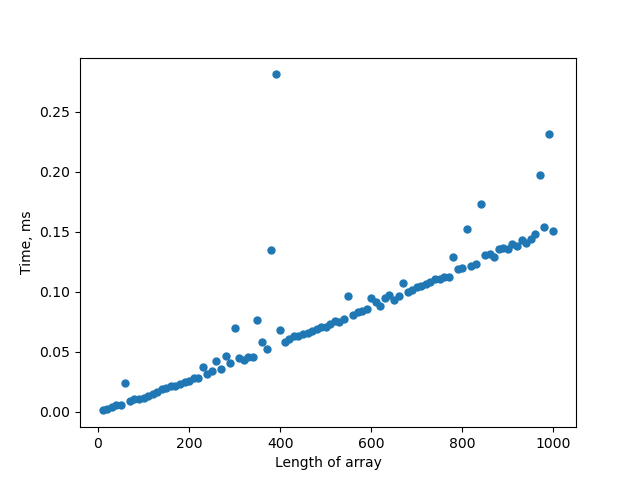
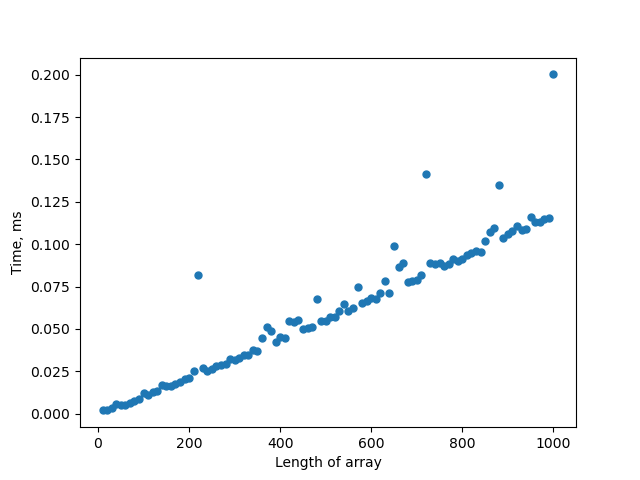
vector -> array

diff --git a/ShellSort/main.cpp b/ShellSort/main.cpp
@@ -1,25 +1,26 @@
 #include <iostream>
 #include <fstream>
-#include <vector>
 #include <cmath>
 #include <chrono>
 #include <iomanip>
 
 using namespace std;
 
-void shellSort(vector<int> &arr)
+void shellSort(int arr[], int n)
 {
-    int i = 0, d = 1, n = arr.size();
+    int i = 0, d = 1;
     
     while (d*3 < n){
         if (i % 2 == 0) d = 9 * pow(2, i) - 9 * pow(2, i / 2) + 1;
         else d = 8 * pow(2, i) - 6 * pow(2, (i + 1) / 2) + 1;
 
-        for (int j = d; j < n; j++) {
+        for (int j = d; j < n; j++)
+        {
             int k = j;
             int temp = arr[j];
 
-            while (k >= d && arr[k - d] > temp) {
+            while (k >= d && arr[k - d] > temp)
+            {
                 arr[k] = arr[k - d];
                 k -= d;
             }
@@ -36,16 +37,21 @@ int main(int argc, char **argv)
     if (argc < 3) return -1;
 
     ifstream inp(argv[1]);
-    vector<int> vec;
 
-    int current_number = 0;
+    // vector<int> arr;
+    
+
+    int current_number = 0, n, i = 0;
+    inp >> n;
+    int *arr = (int*)malloc(n*sizeof(int));
     while (inp >> current_number){
-        vec.push_back(current_number);
+        arr[i] = current_number;
+        i++;
     }
     inp.close();
 
     auto start = chrono::steady_clock::now();
-    shellSort(vec);
+    shellSort(arr, n);
     auto end = chrono::steady_clock::now();
 
     auto diff = end - start;
@@ -53,8 +59,8 @@ int main(int argc, char **argv)
     ofstream out (string("output\\") + argv[2] + ".txt");
 
     out << chrono::duration <double, milli> (diff).count() << "\n";
-    for(int i = 0; i < vec.size(); i++){
-        out << vec[i] << " " ;
+    for(int i = 0; i < n; i++){
+        out << arr[i] << " " ;
     }
     out.close();
 

diff --git a/HeapSort/main.cpp b/HeapSort/main.cpp
@@ -1,13 +1,12 @@
 #include <iostream>
 #include <fstream>
-#include <vector>
 #include <cmath>
 #include <chrono>
 #include <iomanip>
 
 using namespace std;
 
-void sink(vector<int> &arr, int ind, int m)
+void sink(int *arr, int ind, int m)
 {
     int big, l, r;
 
@@ -27,22 +26,22 @@ void sink(vector<int> &arr, int ind, int m)
     }
 }
 
-void build_heap(vector<int> &arr)
+void build_heap(int *arr, int n)
 {
-    int ind = arr.size()/2 - 1;
+    int ind = n/2 - 1;
     
     while (ind >= 0)
     {
-        sink(arr, ind, arr.size());
+        sink(arr, ind, n);
         ind--;
     }
 }
 
-void heapSort(vector<int> &arr)
+void heapSort(int *arr, int n)
 {
-    build_heap(arr);
+    build_heap(arr, n);
 
-    int end = arr.size() - 1;
+    int end = n - 1;
 
     while (end >= 0)
     {
@@ -57,16 +56,19 @@ int main(int argc, char **argv)
     if (argc < 3) return -1;
 
     ifstream inp(argv[1]);
-    vector<int> vec;
+    // vector<int> vec;
 
-    int current_number = 0;
+    int current_number = 0, n, i = 0;
+    inp >> n;
+    int *arr = (int*)malloc(n*sizeof(int));
     while (inp >> current_number){
-        vec.push_back(current_number);
+        arr[i] = current_number;
+        i++;
     }
     inp.close();
 
     auto start = chrono::steady_clock::now();
-    heapSort(vec);
+    heapSort(arr, n);
     auto end = chrono::steady_clock::now();
 
     auto diff = end - start;
@@ -74,8 +76,8 @@ int main(int argc, char **argv)
     ofstream out (string("output\\") + argv[2] + ".txt");
 
     out << chrono::duration <double, milli> (diff).count() << "\n";
-    for(int i = 0; i < vec.size(); i++){
-        out << vec[i] << " " ;
+    for(int i = 0; i < n; i++){
+        out << arr[i] << " " ;
     }
     out.close();
 

diff --git a/QuickSort/main.cpp b/QuickSort/main.cpp
@@ -1,6 +1,5 @@
 #include <iostream>
 #include <fstream>
-#include <vector>
 #include <cmath>
 #include <chrono>
 #include <iomanip>
@@ -14,7 +13,7 @@ void swap_m(int *r, int *s)
     *s = temp;
 } 
 
-int part(vector <int> &arr, int l, int h)
+int part(int *arr, int l, int h)
 {
     int opor = arr[(l + h)/2];
     int i = l - 1;
@@ -34,7 +33,7 @@ int part(vector <int> &arr, int l, int h)
     }
 }
 
-void quickSort(vector <int> &arr, int l, int h)
+void quickSort(int *arr, int l, int h)
 {
     if (l < h)
     {
@@ -49,16 +48,19 @@ int main(int argc, char **argv)
     if (argc < 3) return -1;
 
     ifstream inp(argv[1]);
-    vector<int> vec;
+    // vector<int> arr;
 
-    int current_number = 0;
+    int current_number = 0, n, i = 0;
+    inp >> n;
+    int *arr = (int*)malloc(n*sizeof(int));
     while (inp >> current_number){
-        vec.push_back(current_number);
+        arr[i] = current_number;
+        i++;
     }
     inp.close();
 
     auto start = chrono::steady_clock::now();
-    quickSort(vec, 0, vec.size() - 1);
+    quickSort(arr, 0, n - 1);
     auto end = chrono::steady_clock::now();
 
     auto diff = end - start;
@@ -66,8 +68,8 @@ int main(int argc, char **argv)
     ofstream out (string("output\\") + argv[2] + ".txt");
 
     out << chrono::duration <double, milli> (diff).count() << "\n";
-    for(int i = 0; i < vec.size(); i++){
-        out << vec[i] << " " ;
+    for(int i = 0; i < n; i++){
+        out << arr[i] << " " ;
     }
     out.close();
 

diff --git a/QuickSort/test_script.py b/QuickSort/test_script.py
@@ -45,13 +45,14 @@ if flag:
     for i in range(n):
         lst = [random.randint(-10**5, 10**5) for _ in range(iterators[i])]
         with open('input\\{}.txt'.format(i+1), 'w') as f:
+            f.write(str(iterators[i]) + '\n')
             f.write(" ".join(map(str, lst)))
     exit(0)
 
 arr = []
 
 command = argv[1]
-if command.split('.')[-1] == 'cpp' or command.split('.')[-1] == 'c':
+if command.split('.')[-1] == 'cpp':
     print('COMPILING...')
     result = subprocess.run(['g++', command, '-o', command[:-3]+'o'], stdout=subprocess.PIPE)
     print("Return code:", result.returncode)
@@ -65,7 +66,8 @@ for i in range(n):
     result = subprocess.run([command, 'input\\{}.txt'.format(i+1), str(i+1)], stdout=subprocess.PIPE)
     finishTime = -1
     with open('input\\{}.txt'.format(i+1), 'r') as f:
-        inputLst = list(map(int, f.read().split()))
+        input_n = int(f.readline())
+        inputLst = list(map(int, f.readline().split()))
     with open('output\\{}.txt'.format(i+1), 'r') as f:
         finishTime = float(f.readline())
         outputLst = list(map(int, f.readline().split()))

diff --git a/HeapSort/test_script.py b/HeapSort/test_script.py
@@ -45,6 +45,7 @@ if flag:
     for i in range(n):
         lst = [random.randint(-10**5, 10**5) for _ in range(iterators[i])]
         with open('input\\{}.txt'.format(i+1), 'w') as f:
+            f.write(str(iterators[i]) + '\n')
             f.write(" ".join(map(str, lst)))
     exit(0)
 
@@ -65,7 +66,8 @@ for i in range(n):
     result = subprocess.run([command, 'input\\{}.txt'.format(i+1), str(i+1)], stdout=subprocess.PIPE)
     finishTime = -1
     with open('input\\{}.txt'.format(i+1), 'r') as f:
-        inputLst = list(map(int, f.read().split()))
+        input_n = int(f.readline())
+        inputLst = list(map(int, f.readline().split()))
     with open('output\\{}.txt'.format(i+1), 'r') as f:
         finishTime = float(f.readline())
         outputLst = list(map(int, f.readline().split()))

diff --git a/ShellSort/test_script.py b/ShellSort/test_script.py
@@ -45,6 +45,7 @@ if flag:
     for i in range(n):
         lst = [random.randint(-10**5, 10**5) for _ in range(iterators[i])]
         with open('input\\{}.txt'.format(i+1), 'w') as f:
+            f.write(str(iterators[i]) + '\n')
             f.write(" ".join(map(str, lst)))
     exit(0)
 
@@ -65,7 +66,8 @@ for i in range(n):
     result = subprocess.run([command, 'input\\{}.txt'.format(i+1), str(i+1)], stdout=subprocess.PIPE)
     finishTime = -1
     with open('input\\{}.txt'.format(i+1), 'r') as f:
-        inputLst = list(map(int, f.read().split()))
+        input_n = int(f.readline())
+        inputLst = list(map(int, f.readline().split()))
     with open('output\\{}.txt'.format(i+1), 'r') as f:
         finishTime = float(f.readline())
         outputLst = list(map(int, f.readline().split()))
